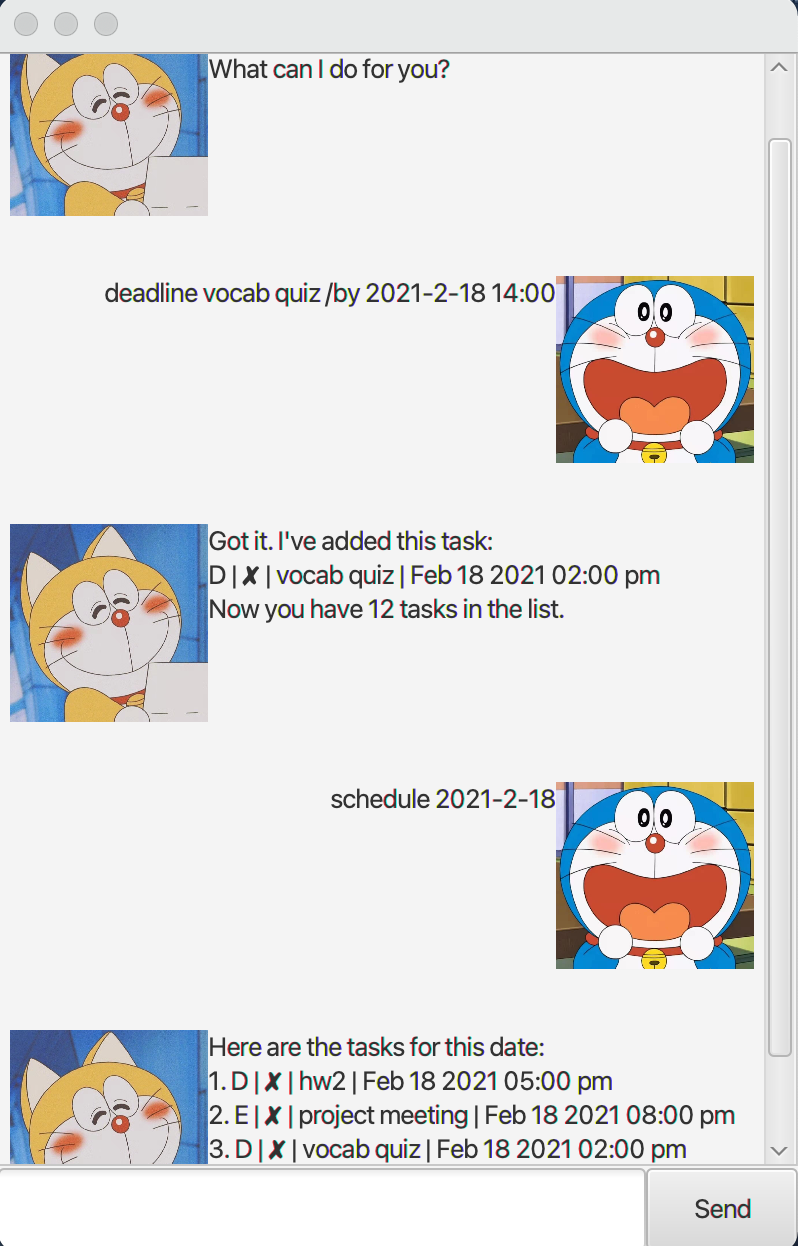
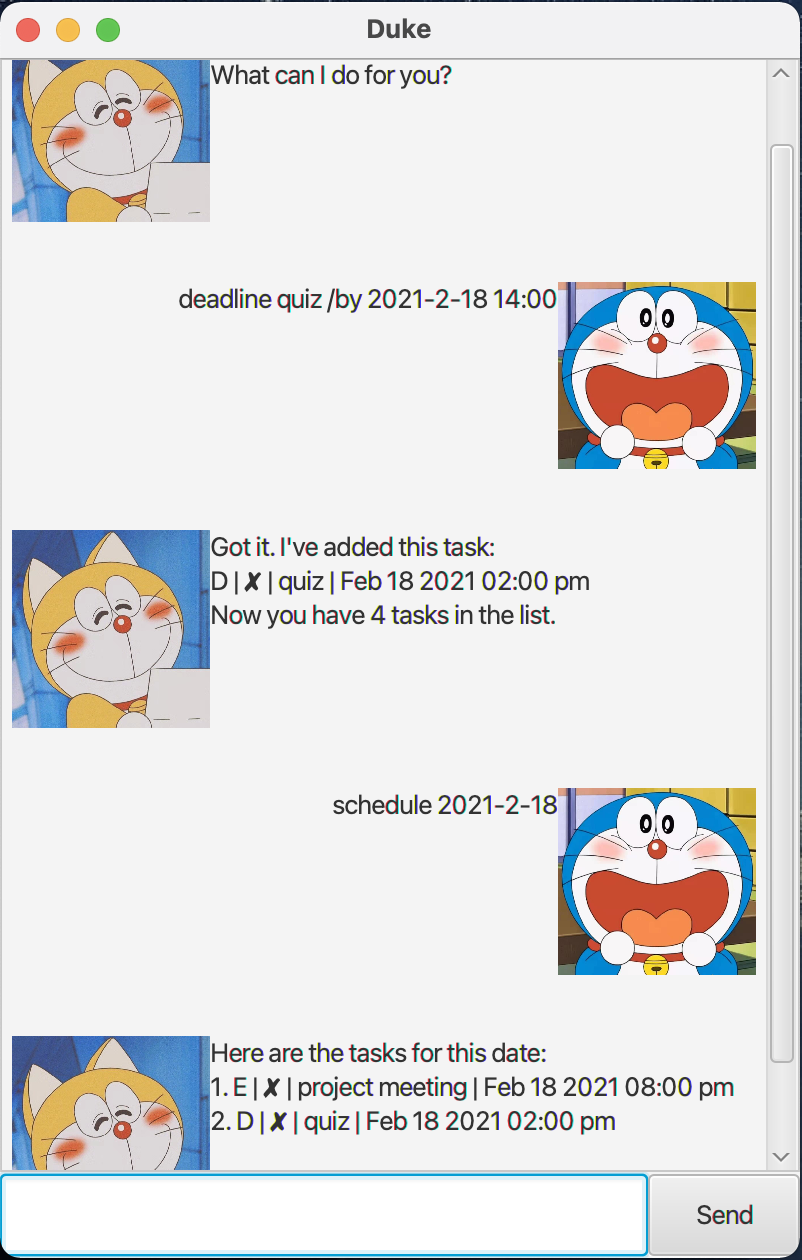
Add title in Main Window

Changed region(s): [[0.0, 0.0, 1.0, 1.0], [0.0, 0.3965, 0.8421, 0.5795]]

diff --git a/src/main/java/Main.java b/src/main/java/Main.java
@@ -20,6 +20,7 @@ public class Main extends Application {
             AnchorPane ap = fxmlLoader.load();
             Scene scene = new Scene(ap);
             stage.setScene(scene);
+            stage.setTitle("Duke");
             fxmlLoader.<MainWindow>getController().setDuke(duke);
             stage.show();
         } catch (IOException e) {

diff --git a/docs/README.md b/docs/README.md
@@ -6,17 +6,20 @@ If you can type fast, Duke can get your tasks management done faster than tradit
 ## Features 
 
 ### Notes about the Command Format
-Words in `UPPER_CASE` are the parameters to be supplied by the user. 
+* Words in `UPPER_CASE` are the parameters to be supplied by the user. 
 e.g. in `todo DESCRIPTION`, `DESCRIPTION` is a parameter which can be used as `todo read a book`.
 
-The datetime format for add commands that takes in a datetime parameter (such as`deadline DESCRIPTION /by yyyy-mm-dd hh:mm`, `event DESCRIPTION /at yyyy-mm-dd hh:mm`) must strictly follow `yyyy-mm-dd hh:mm`. 
+
+* The datetime format for add commands that takes in a datetime parameter (such as`deadline DESCRIPTION /by yyyy-mm-dd hh:mm`, `event DESCRIPTION /at yyyy-mm-dd hh:mm`) must strictly follow `yyyy-mm-dd hh:mm`. 
 e.g. Duke will not understand `deadline homework /by 2021/2/28 10:00`.
 
-Similarly, the date format for command `schedule yyyy-mm-dd` must strictly follow `yyyy-mm-dd`. 
 
-Extraneous parameters for commands that do not take in parameters (such as `list`, `bye`) will cause the program to misinterpret the command.
+* Similarly, the date format for command `schedule yyyy-mm-dd` must strictly follow `yyyy-mm-dd`. 
+
+
+* Extraneous parameters for commands that do not take in parameters (such as `list`, `bye`) will cause the program to misinterpret the command.
 e.g. if the command specifies `list 123`, Duke will NOT understand it as `list` but will return `OOPS!!! I'm sorry, but I don't know what that means :-(`.
-
+  
 ### Adding ToDo
 Adds a ToDo task to the task list.
 ### Adding Deadline
